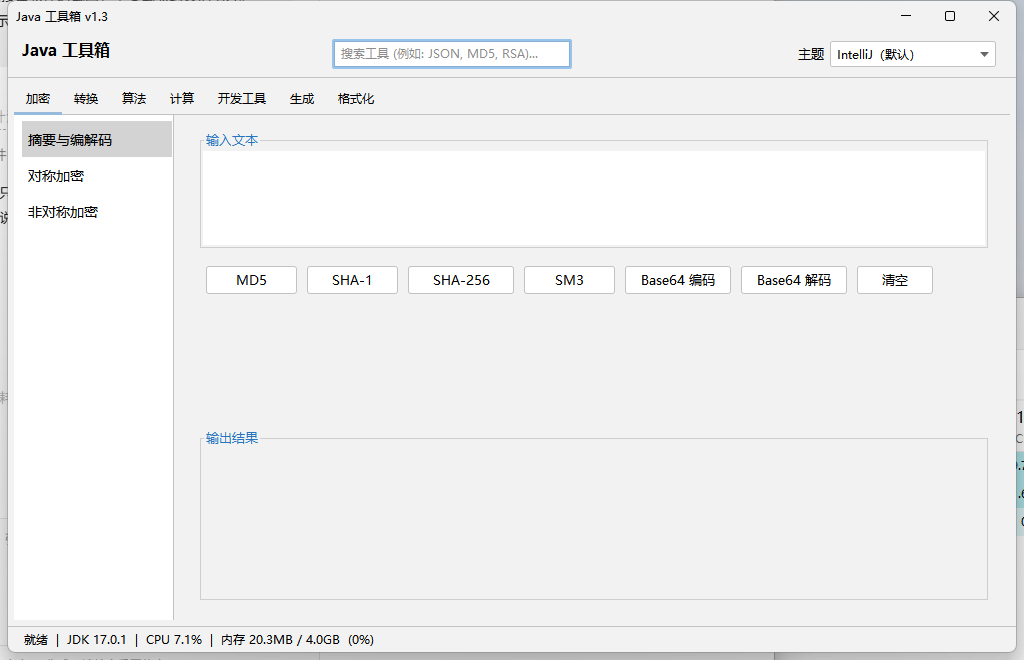
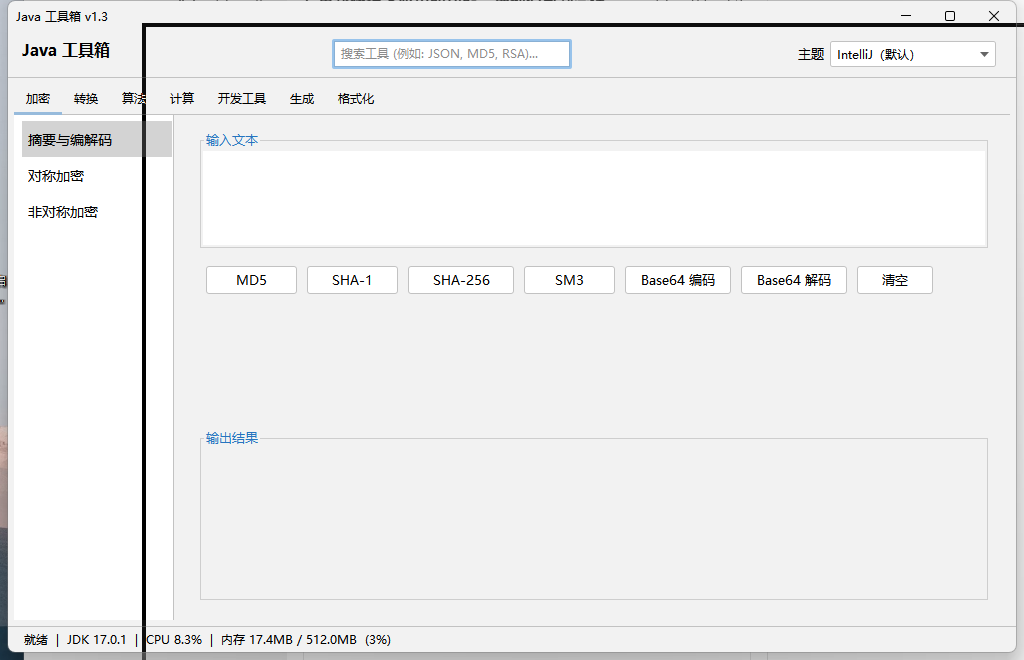
perf: 优化内存占用
- CertUtils 移除 BouncyCastleProvider 注册，改用 JDK 内置 RSA/EC 密钥生成
- 移除 .setProvider(BC_PROVIDER) 调用，使用 JDK 默认加密提供链
- run.bat 添加 -Xmx512m 限制最大堆内存
- 预期内存占用从 1200MB+ 降至 < 600MB

diff --git a/src/main/java/com/aqishi/toolbox/crypto/CertUtils.java b/src/main/java/com/aqishi/toolbox/crypto/CertUtils.java
@@ -10,7 +10,6 @@ import org.bouncycastle.cert.X509CertificateHolder;
 import org.bouncycastle.cert.X509v3CertificateBuilder;
 import org.bouncycastle.cert.jcajce.JcaX509CertificateConverter;
 import org.bouncycastle.cert.jcajce.JcaX509v3CertificateBuilder;
-import org.bouncycastle.jce.provider.BouncyCastleProvider;
 import org.bouncycastle.asn1.pkcs.PrivateKeyInfo;
 import org.bouncycastle.openssl.PEMKeyPair;
 import org.bouncycastle.openssl.PEMParser;
@@ -22,7 +21,6 @@ import org.bouncycastle.operator.jcajce.JcaContentSignerBuilder;
 import javax.security.auth.x500.X500Principal;
 import java.io.*;
 import java.math.BigInteger;
-import java.nio.charset.StandardCharsets;
 import java.security.*;
 import java.security.cert.CertificateFactory;
 import java.security.cert.X509Certificate;
@@ -32,17 +30,10 @@ import java.util.*;
 
 /**
  * 证书工具类：根证书创建、证书签发、证书解析、PEM 编解码。
- * <p>基于 BouncyCastle bcpkix 实现 X.509 v3 证书操作。</p>
+ * <p>使用 JDK 内置 RSA/EC 密钥生成 + BouncyCastle bcpkix 证书构建。
+ * 不注册 BouncyCastleProvider，避免加载数百个加密服务占用内存。</p>
  */
 public class CertUtils {
-
-    private static final String BC_PROVIDER = BouncyCastleProvider.PROVIDER_NAME;
-
-    static {
-        if (Security.getProvider(BouncyCastleProvider.PROVIDER_NAME) == null) {
-            Security.addProvider(new BouncyCastleProvider());
-        }
-    }
 
     // ===========================================================
     //  支持的密钥算法
@@ -89,10 +80,10 @@ public class CertUtils {
                 createSubjectKeyId(keyPair.getPublic()));
 
         ContentSigner signer = new JcaContentSignerBuilder(sigAlg)
-                .setProvider(BC_PROVIDER).build(keyPair.getPrivate());
+                .build(keyPair.getPrivate());
         X509CertificateHolder holder = builder.build(signer);
         X509Certificate cert = new JcaX509CertificateConverter()
-                .setProvider(BC_PROVIDER).getCertificate(holder);
+                .getCertificate(holder);
 
         return new CertResult(cert, keyPair.getPrivate());
     }
@@ -154,10 +145,10 @@ public class CertUtils {
         }
 
         ContentSigner signer = new JcaContentSignerBuilder(sigAlg)
-                .setProvider(BC_PROVIDER).build(caKey);
+                .build(caKey);
         X509CertificateHolder holder = builder.build(signer);
         X509Certificate cert = new JcaX509CertificateConverter()
-                .setProvider(BC_PROVIDER).getCertificate(holder);
+                .getCertificate(holder);
 
         return new CertResult(cert, keyPair.getPrivate());
     }
@@ -203,7 +194,7 @@ public class CertUtils {
         Object obj = parser.readObject();
         parser.close();
 
-        JcaPEMKeyConverter converter = new JcaPEMKeyConverter().setProvider(BC_PROVIDER);
+        JcaPEMKeyConverter converter = new JcaPEMKeyConverter();
 
         if (obj instanceof PrivateKeyInfo) {
             return converter.getPrivateKey((PrivateKeyInfo) obj);
@@ -222,7 +213,7 @@ public class CertUtils {
     private static KeyPair generateKeyPair(int idx) throws Exception {
         String algorithm = KEY_ALG_INTERNAL[idx];
         int size = KEY_SIZES[idx];
-        KeyPairGenerator kpg = KeyPairGenerator.getInstance(algorithm, BC_PROVIDER);
+        KeyPairGenerator kpg = KeyPairGenerator.getInstance(algorithm);
         kpg.initialize(size, new SecureRandom());
         return kpg.generateKeyPair();
     }